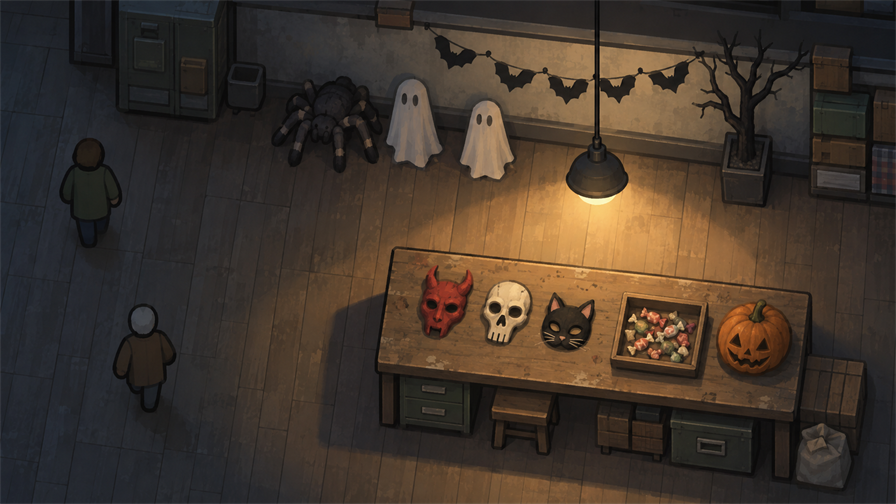
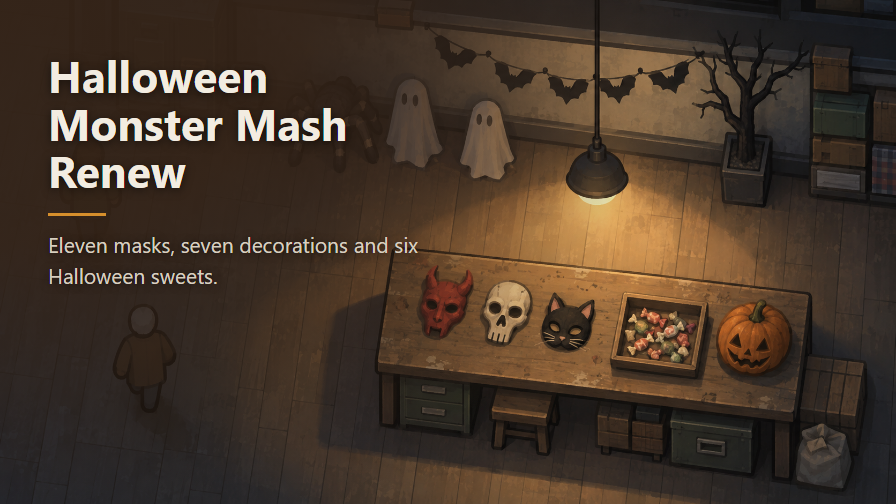
The showcase carries its title, over a veil the pumpkin lends it
The banner had none. Fifty-four of the repository's showcases carry the mod's
name and a line of summary engraved into the image, and this one shipped as the
bare illustration.

The veil is not the black the others use. It is #372518, the shaded base of the
jack-o-lantern averaged off the source and desaturated a fifth toward its own
grey, which puts it at luminance 0.022 against the 0.026 of the floor it covers.
That closeness is the whole point, and it took four renders to find: every
brighter orange sampled off the pumpkin sits above the room it would cover, and
a veil lighter than its scene reads as fog rather than shade. At .90 the lit
flank erased the spider, turned both pawns into orange silhouettes and flattened
the frame to one brown. A night scene lit by a single lamp wants the dark veil;
what it does not want is the same black as everyone else's.

The name takes three lines where the family takes two. Broken as "Halloween"
over "Monster Mash Renew" at 46px, the second line reached the left-hand ghost
and measured 3.76:1 behind the tail of "Renew". Three lines at 44px keep every
one of them clear of both ghosts.

Measured on the render with the text hidden, as the rule asks, because a
translucent veil does not put its own colour behind a glyph. Worst point is the
end of the summary's first line, where the lit corner of the table comes up
under the word "six": 4.19:1 at the veil's first reach, 4.58:1 at the second,
[…]

diff --git a/Art/Preview-text.html b/Art/Preview-text.html
@@ -1,0 +1,93 @@
+<!doctype html>
+<meta charset="utf-8">
+<!--
+  The showcase banner: Preview-source.png with the title engraved over it. Render at 896x504, the
+  size Steam and the in-game mod list both want:
+
+    chrome --headless --disable-gpu --hide-scrollbars --force-device-scale-factor=1 \
+           --window-size=896,504 \
+           --screenshot=Mod/About/Preview.png Art/Preview-text.html
+
+  Chrome wants a file:// URL with an absolute path. Handed a relative one it treats the first
+  segment as a hostname, looks it up, and screenshots the DNS error page instead - which renders
+  and writes a file, so nothing fails.
+
+  THE SOURCE needs no crop. 1672x941 scaled to 896 wide is 504.4 high, so the background sits at
+  0,0 and the spare half pixel falls off the bottom. Engrave from the full-resolution source and
+  never from the reduced Preview.png: the glyphs are composed at final size and are never
+  resampled.
+
+  THE TITLE runs to three lines, which is one more than the family usually takes. Two were tried
+  first, at 46px, broken as "Halloween" over "Monster Mash Renew". The second line reached x=520,
+  and what is at x=500 is the left-hand bedsheet ghost: 3.76:1 behind the tail of "Renew", under
+  the 4.5:1 floor. Widening the veil far enough to cover it fogs the picture. Breaking the name
+  across three lines instead keeps every line short of x=352, well clear of both ghosts, and costs
+  nothing but 44px in place of 46.
+
+  THE VEIL is no longer black. Under the 2026-09-12 rule it takes a colour out of the picture and
+  the ink follows from it:
+
+    #372518 is the jack-o-lantern's shaded base, the mean of the source between 1360,660 and
+            1470,700, desaturated a fifth of the way to its own grey. WCAG relative luminance
+            0.022, well under the 0.18 that decides the ink.
+    ink     the light pair: #F2ECE1 for the title, #D8CFC0 for the summary.
+    shadow  kept, as a dark veil's shadow is: it lifts the glyphs off the scene showing through.
+    rule    stays amber #D68F2C. The exception is for a veil that is itself amber, and this one
+            is a shadowed brown - hue 25 degrees, near enough the shadowed straw Creatures of Ki
+            engraved on, which kept the amber too.
+
+  WHY NOT A BRIGHTER ORANGE, which is the obvious choice for a Halloween mod. Four were sampled
+  off the pumpkin and every one of them is brighter than the room it would cover. The lit flank
+  (#7C431C, L=0.080) was rendered: at .90 it does not read as shade but as fog, because a veil
+  lighter than the scene lifts the blacks instead of deepening them. The spider vanished, both
+  pawns went to orange silhouettes, and the whole frame came up one flat brown. On a night scene
+  lit by a single lamp the veil has to be at or below the scene's own darkness - the floor behind
+  the text measures L=0.026, and this veil sits at 0.022. What it must not be is the same black as
+  the other fifty-four, and at 20,20 it reads #342419.
+
+  THE REACH is 720 by 580, wider than the rule's stated dark-veil form, which dies at 74% of the
+  diagonal. Three narrower ellipses were measured and the same point failed each time - the far
+  end of the summary's first line, at 424,252, where the lit corner of the table comes up under
+  the word "six": 4.19:1 at 660x440, 4.58:1 at 680x500. At 720x580 it is 5.08:1, and the spider,
+  the ghosts, the lamp pool and the standing pawn all survive. If the summary is ever reworded so
+  that its first line runs past x=424, measure again.
+
+  Measured on the render and not on this stylesheet: the veil is translucent, so what is behind a
+  glyph is not the colour in the CSS. Render a second time with .text{display:none}, read the
+  pixels across each line's box, and take the worst.
+-->
+<style>
+  html,body { margin:0; padding:0; }
+  .frame {
+    position:relative; width:896px; height:504px; overflow:hidden;
+    background-image:url('Preview-source.png');
+    background-repeat:no-repeat;
+    background-size:896px auto;
+    background-position:0px 0px;
+  }
+  .shade {
+    position:absolute; inset:0;
+    background:radial-gradient(ellipse 720px 580px at top left,
+                               rgba(55,37,24,.90) 0%,
+                               rgba(55,37,24,.86) 42%,
+                               rgba(55,37,24,0) 100%);
+  }
+  .text { position:absolute; left:48px; top:52px; font-family:"Segoe UI",sans-serif; }
+  h1 {
+    margin:0; font-size:44px; font-weight:700; line-height:1.08;
+    color:#F2ECE1; letter-spacing:.2px; text-shadow:0 2px 10px rgba(0,0,0,.55);
+  }
+  .rule { width:58px; height:3px; background:#D68F2C; margin:18px 0 13px 0; }
+  p {
+    margin:0; width:430px; font-size:21px; line-height:1.5;
+    color:#D8CFC0; text-shadow:0 1px 8px rgba(0,0,0,.6);
+  }
+</style>
+<div class="frame">
+  <div class="shade"></div>
+  <div class="text">
+    <h1>Halloween<br>Monster Mash<br>Renew</h1>
+    <div class="rule"></div>
+    <p>Eleven masks, seven decorations and six Halloween sweets.</p>
+  </div>
+</div>

diff --git a/README.md b/README.md
@@ -102,7 +102,8 @@ Mod/Defs/ThingDefs_Misc/                masks, decorations, sweets
 Mod/Defs/RecipeDefs/                    the six cooking recipes
 Mod/Languages/French/DefInjected/       translation
 Mod/Textures/                           taken as-is from upstream, all seventy-three
-Art/                                    showcase sources; RimWorld never reads this folder
+Art/                                    showcase sources and the sheet that engraves it;
+                                        RimWorld never reads this folder
 ```
 
 ## Licence

diff --git a/STATUS.md b/STATUS.md
@@ -14,7 +14,7 @@ workshop:
 remaining:
   - unverified: never seen running
 session:      4d536aaf-96f0-461c-b97c-4a62e7d1e98b
-updated:      2026-09-12, on leaving the monorepo
+updated:      2026-09-12, showcase engraved
 ---
 
 # Halloween Monster Mash Renew — status
